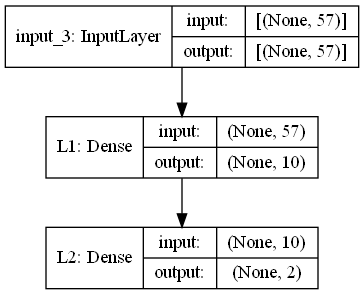
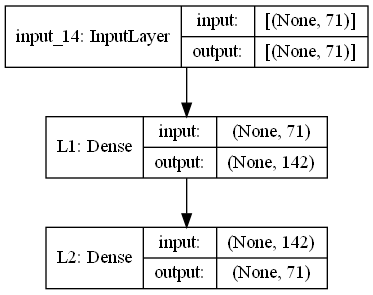
1st functioning DNN
- removed 1hot encoding
- debugged sampling
- adjusted DNN architecture

diff --git a/ECG_analysis.py b/ECG_analysis.py
@@ -61,16 +61,7 @@ ecg = record.p_signal[:, 0]
 p_ts = np.zeros(record.sig_len, dtype=int)
 width = 6
 for i in ann.sample:
-    p_ts[max(i-width, 0):min(i+width, record.sig_len)] = -1
-# one-hot encode p-wave time trace for model training
-p_ts_1hot = np.zeros((p_ts.shape[0], 2), dtype=int)
-for i, value in enumerate(p_ts):
-    if value == -1:
-        p_ts_1hot[i][0] = 1
-        p_ts_1hot[i][1] = 0
-    elif value == 0:
-        p_ts_1hot[i][0] = 0
-        p_ts_1hot[i][1] = 1
+    p_ts[max(i-width, 0):min(i+width, record.sig_len)] = 1
     
 # translate discrete r-wave annotation into digital signal
 # r-wave is +-width around annotation
@@ -119,28 +110,31 @@ plt.show()
 # METHOD 1
 """
 Split data into chunks of periods (use atr annotation as marker)
-cut chunks slightly after r-wave (offset: 30 original samples)
+The start of the chunk isi randomly chosen on the periodic signal
 remove the first (weird annotation) and the last two heartbeats (for dimension consistency)
-N.B. There are a few (17) heartbeats with no p-wave annotated
-There is only one weird heartbeat (lasting 407 samples: heartbeat # 1907)
-                                   
-Drawback:
-    - the model might just learn the average sample position on the period chunk...
+
+N.B.:
+    There are a few (17) heartbeats with no p-wave annotated
+    There is only one weird heartbeat (lasting 407 samples: heartbeat # 1907)
 """
 print(f"There are {np.count_nonzero(period > 400)} periods longer than 400 original samples, meaning with no r-wave.")
-sampling = 5
-ecg_packets = np.zeros(shape=(atr.sample.shape[0]-3, int(period_mean/sampling)))
+sampling = 2
+packet_length = ecg[: period_mean : sampling].shape[0]
+ecg_packets = np.zeros(shape=(atr.sample.shape[0]-3, packet_length))
 p_ts_packets = np.zeros(shape=ecg_packets.shape, dtype=int)
-p_ts_1hot_packets = np.zeros(shape=(ecg_packets.shape + (2, )), dtype=int)
-for hb, sample in enumerate(atr.sample[1:-2]):
-    ecg_packets[hb, :] = ecg[sample+30 : sample+30+period_mean : sampling]
-    p_ts_packets[hb, :] = p_ts[sample+30 : sample+30+period_mean : sampling]
-    p_ts_1hot_packets[hb, :, :] = p_ts_1hot[sample+30 : sample+30+period_mean : sampling, :]
 
-for i in range(0, 1):
-    plt.plot(ecg_packets[i, :])
+# for hb, sample in enumerate(atr.sample[1:-2]):
+#     offset = np.random.randint(low=0, high=int(period_mean/sampling))
+#     ecg_packets[hb, :] = ecg[sample+offset : sample+offset+period_mean : sampling]
+#     p_ts_packets[hb, :] = p_ts[sample+offset : sample+offset+period_mean : sampling]
 
-# one-hot encode p-wave time series    
+for i in range(ecg_packets.shape[0]):
+    offset = np.random.randint(low=0, high=ecg.shape[0]-period_mean)
+    ecg_packets[i, :] = ecg[offset : offset+period_mean : sampling]
+    p_ts_packets[i, :] = p_ts[offset : offset+period_mean : sampling]
+
+for i in range(0, 100):
+    plt.plot(ecg_packets[i, :]) 
 
 # split train, test
 perc_split = 0.8
@@ -149,23 +143,46 @@ ecg_packets_train = ecg_packets[0:int(n_inputs*perc_split)]
 ecg_packets_test = ecg_packets[int(n_inputs*perc_split):-1]
 p_ts_packets_train = p_ts_packets[0:int(n_inputs*perc_split)]
 p_ts_packets_test = p_ts_packets[int(n_inputs*perc_split):-1]
-# p_ts_1hot_packets_train = p_ts_packets[0:int(n_inputs*perc_split), :, :]
-# p_ts_1hot_packets_test = p_ts_packets[int(n_inputs*perc_split):-1, :, :]
 
-# %% MODEL 1: Dense neural network
 
+# %% MODEL 1: Dense neural network - simplest model
 # Build model
-x = tf.keras.layers.Input(dtype='float64', shape=ecg_packets.shape[1])
+d_input = ecg_packets.shape[1]
+x = tf.keras.layers.Input(dtype='float64', shape=d_input)
 
 # lay_1 = tf.keras.layers.Dense(units=period_mean, activation='relu')(x)
 # lay_2 = tf.keras.layers.Dense(units=50, activation='relu')(lay_1)
 # lay_3 = tf.keras.layers.Dense(units=2, activation='softmax')(lay_2)
    
-lay_1 = tf.keras.layers.Dense(units=10, activation='relu', name='L1')(x)
-lay_2 = tf.keras.layers.Dense(units=2, activation='softmax', name='L2')(lay_1)
+lay_1 = tf.keras.layers.Dense(units=d_input, activation='sigmoid', name='L1')(x)
 
-#prediction: onehot->integer
-pred = tf.argmax(lay_2, axis=1)
+#prediction: probability->integer
+# pred = 
+
+#TBD: adding pred to the model output prudces an error (expected int64, instead had float)
+model = tf.keras.Model(inputs=x, outputs=[lay_1])
+
+model.summary()
+tf.keras.utils.plot_model(model, show_shapes=True)
+
+model.compile(optimizer='Adam',
+              loss='binary_crossentropy',
+              metrics=['accuracy'])
+
+# %% MODEL 2: Dense neural network - more complex
+# Build model
+d_input = ecg_packets.shape[1]
+x = tf.keras.layers.Input(dtype='float64', shape=d_input)
+
+# lay_1 = tf.keras.layers.Dense(units=period_mean, activation='relu')(x)
+# lay_2 = tf.keras.layers.Dense(units=50, activation='relu')(lay_1)
+# lay_3 = tf.keras.layers.Dense(units=2, activation='softmax')(lay_2)
+   
+lay_1 = tf.keras.layers.Dense(units=d_input*2, activation='relu', name='L1')(x)
+lay_2 = tf.keras.layers.Dense(units=d_input, activation='sigmoid', name='L2')(lay_1)
+
+#prediction: probability->integer
+# pred = 
 
 #TBD: adding pred to the model output prudces an error (expected int64, instead had float)
 model = tf.keras.Model(inputs=x, outputs=[lay_2])
@@ -175,11 +192,34 @@ tf.keras.utils.plot_model(model, show_shapes=True)
 
 model.compile(optimizer='Adam',
               loss='binary_crossentropy',
-              metrics=['binary_accuracy'])
+              metrics=['accuracy'])
 
-# %%
-history = model.fit(x=ecg_packets_train,
-                    y=p_ts_packets_train
+# %% TRAIN MODEL
+hist = model.fit(x=ecg_packets_train,
+                    y=p_ts_packets_train,
                     epochs=5,
-                    batch_size=20,
-                    validation_data=)
+                    batch_size=10,
+                    validation_data=(ecg_packets_test, p_ts_packets_test))
+
+# %% PLOT RESULTS
+fig, axs = plt.subplots(1, 2, figsize=(10,5))
+axs[0].plot(hist.epoch, hist.history['loss'])
+axs[0].plot(hist.epoch, hist.history['val_loss'])
+axs[0].legend(('training loss', 'validation loss'), loc='lower right')
+axs[1].plot(hist.epoch, hist.history['acc'])
+axs[1].plot(hist.epoch, hist.history['val_acc'])
+
+axs[1].legend(('training accuracy', 'validation accuracy'), loc='lower right')
+plt.show()
+
+# %% EXAMINE RESULTS
+pred_test = model.predict(ecg_packets_test)
+
+ax = plt.gca()
+for i in range(0, 5):
+    color = next(ax._get_lines.prop_cycler)['color']
+    plt.plot(ecg_packets_test[i, :], color = color)
+    plt.plot(p_ts_packets_test[i, :], color=color)
+    plt.plot(pred_test[i, :], color=color)
+    plt.show()
+
